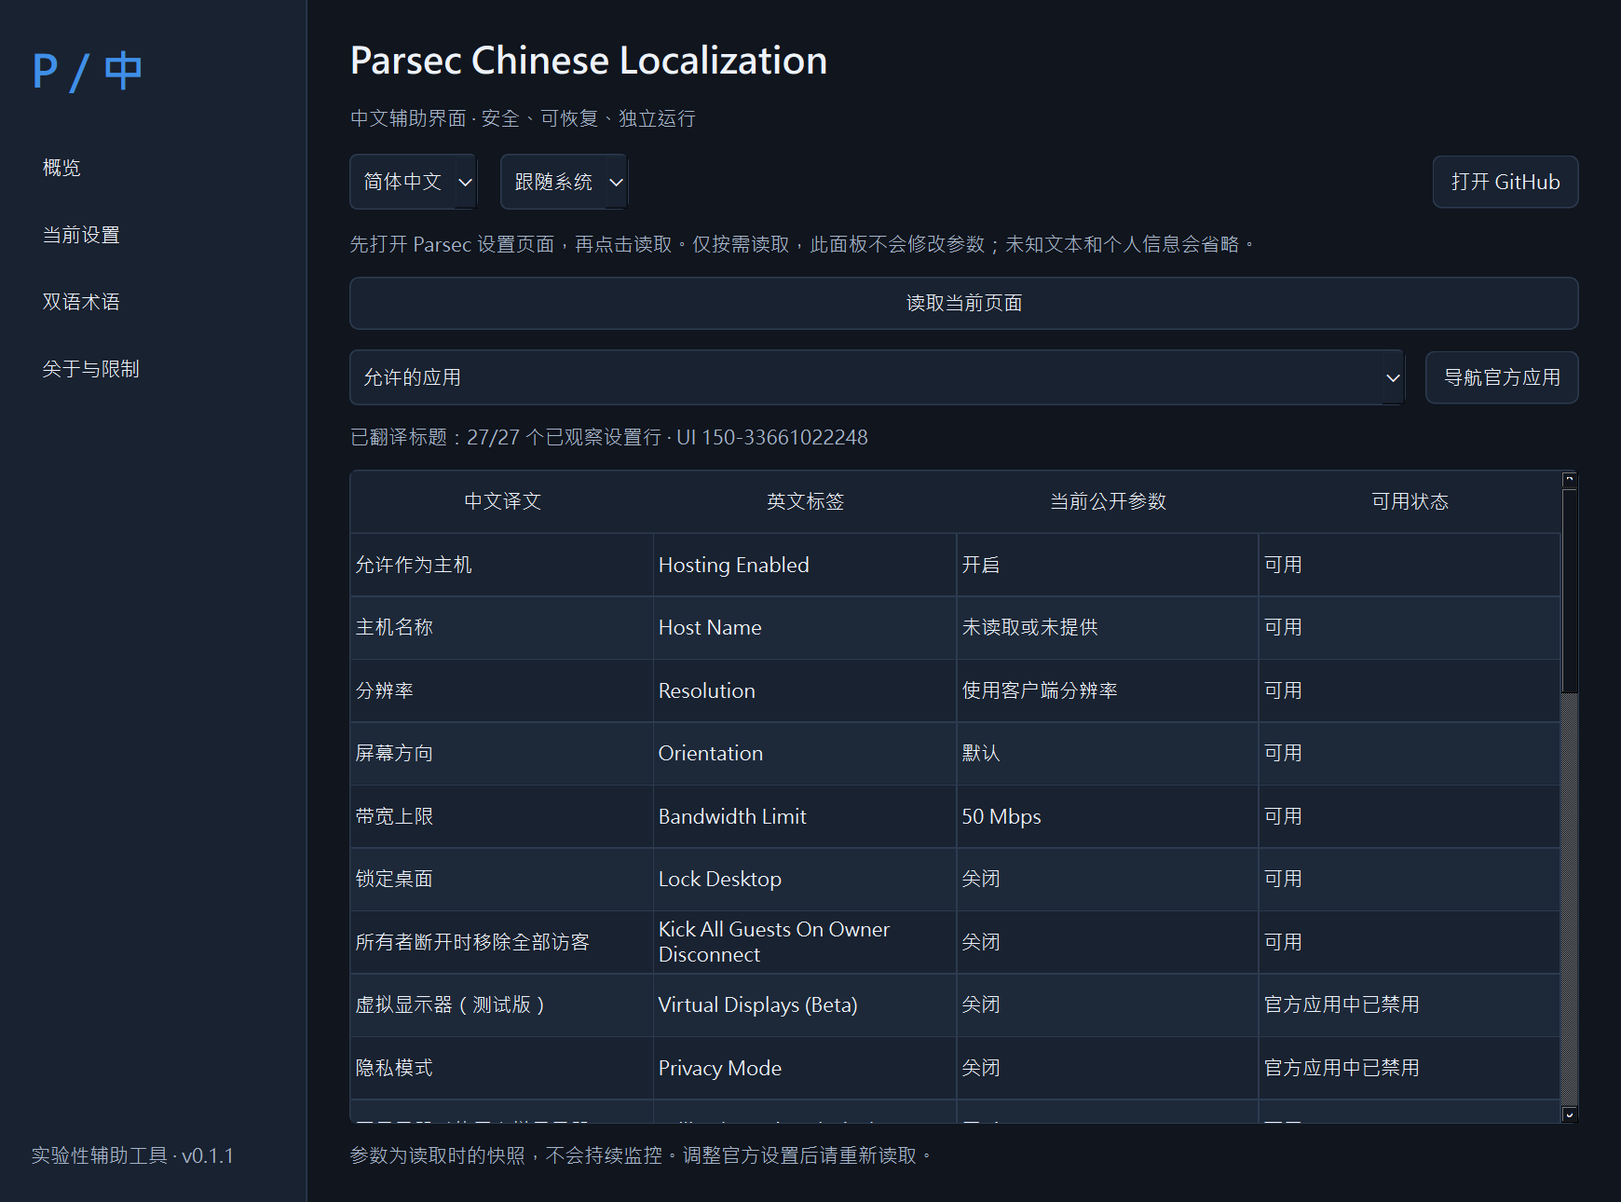
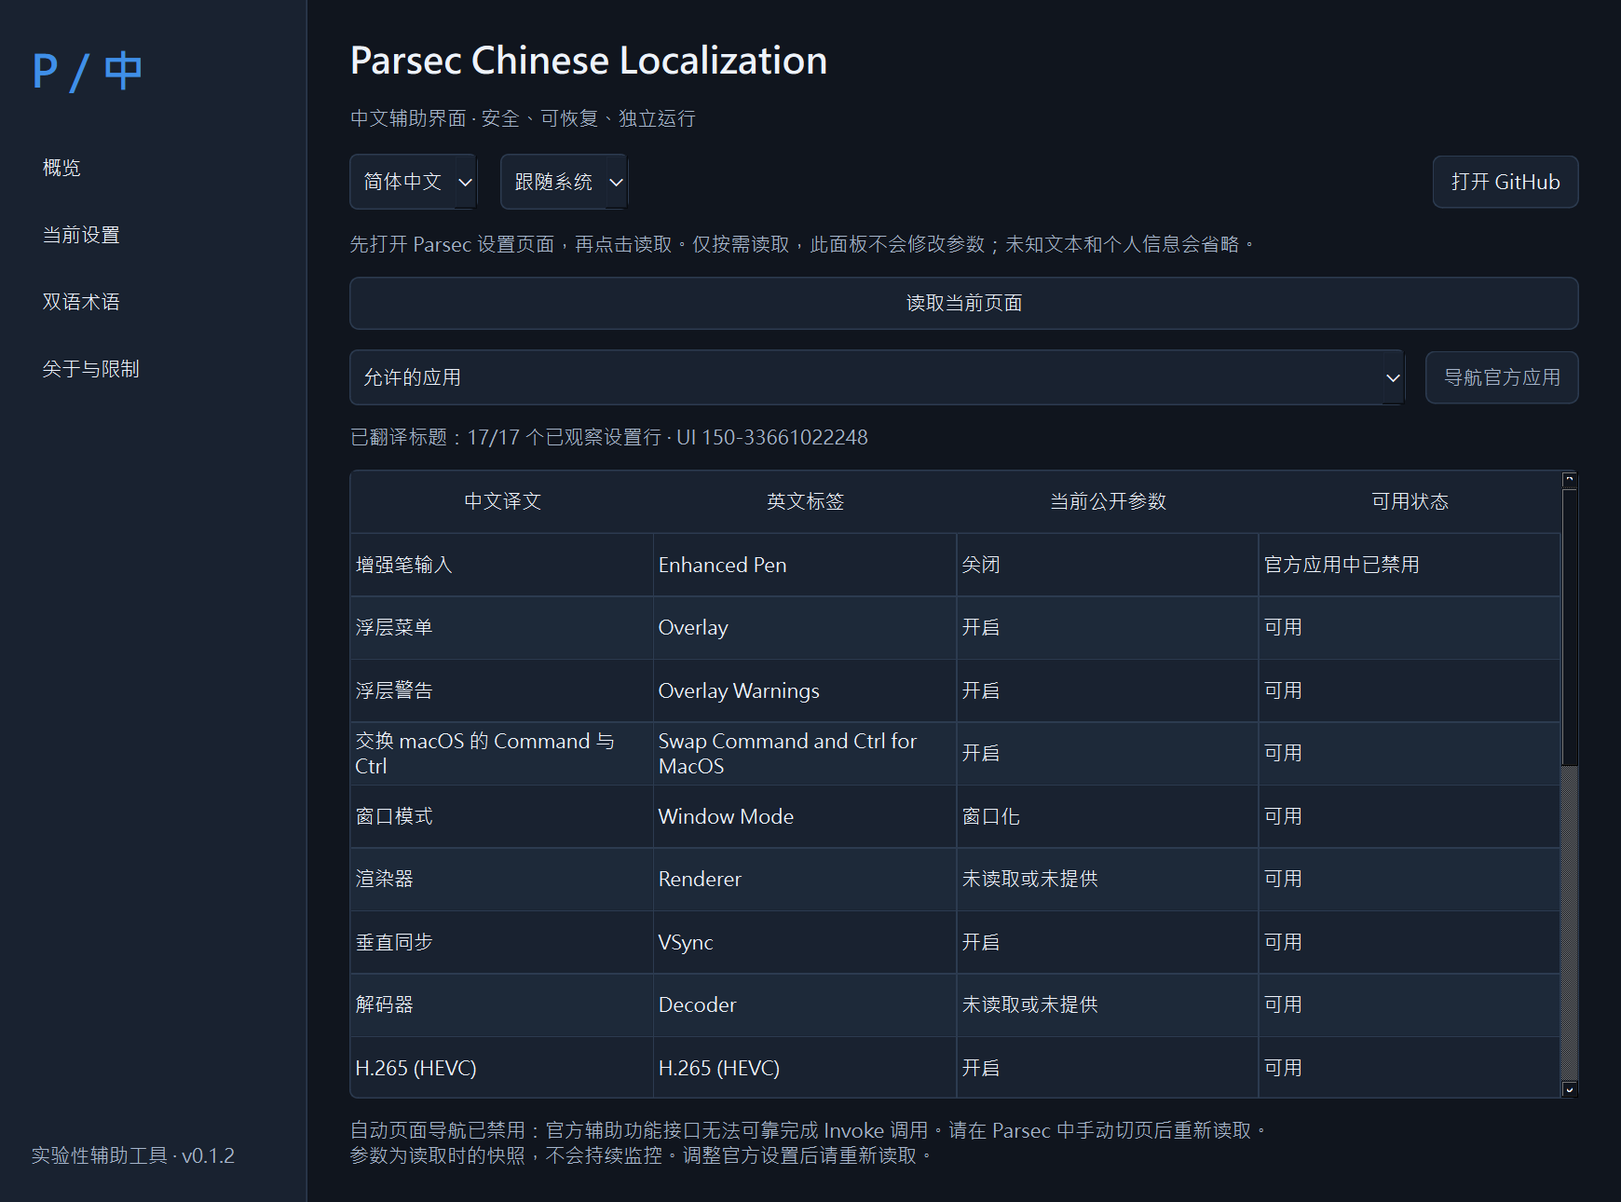
Release v0.1.2 with read-only integration and bounded helper cleanup

diff --git a/src/parsec_chinese/bridge.py b/src/parsec_chinese/bridge.py
@@ -79,40 +79,47 @@ class WindowsBridge:
         navigation = tuple(n for n in sorted(NAVIGATION) if any(b.element_info.name == n and b.is_enabled() for b in buttons))
         rows = {}
         observed = 0
-        # Read actual table rows only, not the username header, footer or host list.
-        for table in window.descendants(control_type="Table"):
-            for row in table.children():
-                cells = row.children()
-                if len(cells) != 2:
+        # Host uses a table; Client uses grouped fields. Both expose ARIA
+        # headings with a uniquely labelled control in a nearby container.
+        for heading in window.descendants():
+            try:
+                if heading.element_info.element.CurrentAriaRole != "heading":
                     continue
-                headings = cells[0].descendants()
-                # Names may be arbitrary; keep only exact known public labels.
-                labels = [h.element_info.name for h in headings
-                          if h.element_info.name.casefold() in self.translations.lookup]
-                observed += 1
-                if not labels:
-                    continue
-                label = labels[0]
-                controls = [c for c in cells[1].descendants()
+            except Exception:
+                continue
+            label = heading.element_info.name
+            scope = heading
+            controls = []
+            for _ in range(3):
+                scope = scope.parent()
+                if scope is None:
+                    break
+                controls = [c for c in scope.descendants()
                             if c.element_info.control_type in ("ComboBox", "CheckBox", "Button", "Spinner", "Edit")
                             and c.element_info.name == label]
-                value = ""
-                enabled = True
-                if controls and label not in PRIVATE_LABELS:
-                    control = controls[0]
-                    enabled = control.is_enabled()
-                    try:
-                        kind = control.element_info.control_type
-                        if kind == "ComboBox":
-                            value = safe_value(control.iface_value.CurrentValue, self.translations)
-                        elif kind in ("CheckBox", "Button"):
-                            value = {0: "Off", 1: "On", 2: "Mixed"}.get(control.iface_toggle.CurrentToggleState, "")
-                        elif kind == "Spinner":
-                            value = safe_value(control.iface_range_value.CurrentValue, self.translations)
-                        # Edit boxes are deliberately never read, even if labelled.
-                    except Exception:
-                        value = ""
-                rows[label] = SettingRow(label, value, enabled)
+                if len(controls) == 1:
+                    break
+            if len(controls) != 1:
+                continue
+            observed += 1
+            if label.casefold() not in self.translations.lookup:
+                continue
+            control = controls[0]
+            value = ""
+            enabled = control.is_enabled()
+            if label not in PRIVATE_LABELS:
+                try:
+                    kind = control.element_info.control_type
+                    if kind == "ComboBox":
+                        value = safe_value(control.iface_value.CurrentValue, self.translations)
+                    elif kind in ("CheckBox", "Button"):
+                        value = {0: "Off", 1: "On", 2: "Mixed"}.get(control.iface_toggle.CurrentToggleState, "")
+                    elif kind == "Spinner":
+                        value = safe_value(control.iface_range_value.CurrentValue, self.translations)
+                    # Edit boxes are deliberately never read, even if labelled.
+                except Exception:
+                    value = ""
+            rows[label] = SettingRow(label, value, enabled)
         return Snapshot(tuple(rows.values()), navigation, observed, len(rows), KNOWN_UI)
 
     def navigate(self, label):

diff --git a/scripts/seed_locales.py b/scripts/seed_locales.py
@@ -71,6 +71,7 @@ shortcut|Use Ctrl+F to search the glossary; Alt+F4 or Command+Q closes the app.|
 experimental|Experimental companion · v{version}|实验性辅助工具 · v{version}|實驗性輔助工具 · v{version}
 loading|Detecting…|正在检测…|正在偵測…
 navigation|Navigate official app|导航官方应用|導覽官方應用程式
+navigation_unavailable_note|Automatic page navigation is disabled: the official accessibility provider did not reliably complete Invoke calls. Switch pages manually in Parsec, then read again.|自动页面导航已禁用：官方辅助功能接口无法可靠完成 Invoke 调用。请在 Parsec 中手动切页后重新读取。|自動頁面導覽已停用：官方輔助使用介面無法可靠完成 Invoke 呼叫。請在 Parsec 中手動切換頁面後重新讀取。
 settings_note|Values are a snapshot, not a continuous monitor. Read again after changing an official setting.|参数为读取时的快照，不会持续监控。调整官方设置后请重新读取。|參數為讀取當下的快照，不會持續監控。調整官方設定後請重新讀取。
 """
 
@@ -236,9 +237,15 @@ Help|Support Ticket|支持工单|支援服務單
 Help|Start Free Trial|开始免费试用|開始免費試用
 Help|Install WebView2|安装 WebView2|安裝 WebView2
 Help|Re-authenticate|重新验证身份|重新驗證身分
+Client|HID Compatibility Options|HID 兼容性选项|HID 相容性選項
+Client|Yubikey Passthrough|YubiKey 直通|YubiKey 直通
+Client|Yubikey Selection|YubiKey 选择|YubiKey 選擇
+Client|Camera Passthrough|摄像头直通|攝影機直通
+Client|Camera Selection|摄像头选择|攝影機選擇
 """
 
 OBSERVED = set("Hosting Enabled|Host Name|Resolution|Orientation|Bandwidth Limit|Lock Desktop|Kick All Guests On Owner Disconnect|Virtual Displays (Beta)|Privacy Mode|Fallback To Virtual Display|Block Daisy-Chaining/Multi-Hop|FPS|Constant FPS|Idle Kick Timer|Exclusive Input Mode|Display|Audio|Echo Cancelling|Echo Selection|Virtual Microphone|Virtual Tablet (Beta)|Parsec Virtual USB Gamepads (Beta)|Virtual Gamepad Type|Virtual Mouse|Virtual Yubikey|Virtual Camera|Quality|Use Client Resolution|Owner-Only|Lowest Latency|Default (Automatic Selection)".split("|"))
+OBSERVED.update("HID Compatibility Options|Yubikey Passthrough|Yubikey Selection|Camera Passthrough|Camera Selection".split("|"))
 
 def main():
     root = Path(__file__).resolve().parents[1] / "locales"

diff --git a/tests/test_bridge_rows.py b/tests/test_bridge_rows.py
@@ -1,0 +1,59 @@
+from types import SimpleNamespace as NS
+from parsec_chinese.bridge import WindowsBridge
+from parsec_chinese.translations import Translations
+from parsec_chinese.detection import Installation
+
+
+class Node:
+    def __init__(self, name, kind="Text", role="heading", children=()):
+        self.element_info = NS(name=name, control_type=kind, element=NS(CurrentAriaRole=role))
+        self.nodes = list(children)
+        self.owner = None
+        for c in self.nodes:
+            c.owner = self
+        self.iface_value = NS(CurrentValue="Hardware")
+
+    def descendants(self):
+        return [c for node in self.nodes for c in (node, *node.descendants())]
+
+    def parent(self):
+        return self.owner
+
+    def is_enabled(self):
+        return True
+
+
+def test_grouped_client_fields_and_private_text(monkeypatch):
+    heading = Node("Decoder")
+    control = Node("Decoder", "ComboBox", "combobox")
+    group = Node("", "Group", "group", (heading, control))
+    private = Node("private-account#123", role="")
+    root = Node("", "Window", "", (group, private))
+    bridge = WindowsBridge(Installation(), Translations())
+    monkeypatch.setattr(bridge, "_window", lambda: (root, []))
+    snapshot = bridge.read()
+    assert snapshot.observed == snapshot.translated == 1
+    assert snapshot.rows[0].label == "Decoder"
+    assert snapshot.rows[0].value == "Hardware"
+
+
+def test_unknown_heading_counted_but_not_retained(monkeypatch):
+    heading = Node("Unverified setting")
+    control = Node("Unverified setting", "Edit", "textbox")
+    root = Node("", "Group", "group", (heading, control))
+    bridge = WindowsBridge(Installation(), Translations())
+    monkeypatch.setattr(bridge, "_window", lambda: (root, []))
+    snapshot = bridge.read()
+    assert snapshot.observed == 1
+    assert snapshot.rows == ()
+
+
+def test_host_name_edit_value_never_accessed(monkeypatch):
+    heading = Node("Host Name")
+    control = Node("Host Name", "Edit", "textbox")
+    del control.iface_value
+    root = Node("", "Group", "group", (heading, control))
+    bridge = WindowsBridge(Installation(), Translations())
+    monkeypatch.setattr(bridge, "_window", lambda: (root, []))
+    snapshot = bridge.read()
+    assert snapshot.rows[0].value == ""

diff --git a/src/parsec_chinese/app.py b/src/parsec_chinese/app.py
@@ -251,6 +251,7 @@ class Window(QMainWindow):
             getattr(self, name).setText(self.t(key))
         for label, key in ((self.notice, "notice"), (self.patch_reason, "patch_reason"), (self.live_help, "live_help"), (self.settings_note, "settings_note")):
             label.setText(self.t(key))
+        self.settings_note.setText(self.t("navigation_unavailable_note") + "\n" + self.t("settings_note"))
         self.patch_button.setToolTip(self.t("patch_reason"))
         self.language_picker.blockSignals(True)
         self.language_picker.setCurrentIndex(self.language_picker.findData(self.preferences.language))
@@ -291,9 +292,11 @@ class Window(QMainWindow):
                                     (self.installation.signature_valid or self.installation.platform == "darwin"))
         self.read_button.setEnabled(not busy and self.installation.live_supported)
         self.read_button.setToolTip("" if self.installation.live_supported else self.t("unsupported_version_error"))
-        self.nav_button.setEnabled(not busy and bool(self.snapshot.navigation) and self.installation.live_supported)
-        self.nav_picker.setEnabled(not busy and bool(self.snapshot.navigation))
-        self.nav_button.setToolTip("" if self.snapshot.navigation else self.t("live_help"))
+        # Real integration checks found unreliable Invoke completion. Do not
+        # expose an action that may change a page without a confirmed outcome.
+        self.nav_button.setEnabled(False)
+        self.nav_picker.setEnabled(False)
+        self.nav_button.setToolTip(self.t("navigation_unavailable_note"))
 
     def fill_glossary(self):
         rows = self.translations.terms(self.preferences.language, self.search.text())
@@ -434,9 +437,7 @@ class Window(QMainWindow):
             self.run_job("read", lambda: IsolatedBridge(self.installation, self.translations).read())
 
     def navigate(self):
-        label = self.nav_picker.currentData()
-        if label:
-            self.run_job("navigate", lambda: IsolatedBridge(self.installation, self.translations).navigate(label))
+        self.message("navigation_unavailable_note")
 
     def search_terms(self):
         self.pages.setCurrentIndex(2)

diff --git a/tests/test_isolation.py b/tests/test_isolation.py
@@ -1,4 +1,6 @@
 import subprocess
+import sys
+import time
 import pytest
 from parsec_chinese.isolated_bridge import IsolatedBridge, worker
 from parsec_chinese.detection import Installation
@@ -12,6 +14,8 @@ def test_provider_timeout_bounded(tmp_path, monkeypatch):
     bridge = IsolatedBridge(Installation(exe,"150-105c",True,"win32"), Translations(), timeout=0.1)
     def stall(command, **kwargs):
         assert kwargs["timeout"] == 0.1
+        assert kwargs["stdout"] is subprocess.DEVNULL
+        assert "capture_output" not in kwargs
         raise subprocess.TimeoutExpired(command, 0.1)
     monkeypatch.setattr(subprocess, "run", stall)
     with pytest.raises(BridgeError, match="provider_timeout"):
@@ -30,3 +34,17 @@ def test_unknown_version_does_not_start_helper(monkeypatch):
     monkeypatch.setattr(subprocess, "run", forbidden)
     with pytest.raises(BridgeError, match="unsupported_version"):
         IsolatedBridge(Installation(), Translations()).read()
+
+
+def test_real_stalled_helper_is_terminated(tmp_path, monkeypatch):
+    exe = tmp_path / "parsecd.exe"
+    exe.touch()
+    bridge = IsolatedBridge(Installation(exe, "150-105c", True, "win32"), Translations(), timeout=0.15)
+    original = subprocess.run
+    def delayed(command, **kwargs):
+        return original([sys.executable, "-c", "import time; time.sleep(30)"], **kwargs)
+    monkeypatch.setattr(subprocess, "run", delayed)
+    started = time.monotonic()
+    with pytest.raises(BridgeError, match="provider_timeout"):
+        bridge.read()
+    assert time.monotonic() - started < 5

diff --git a/src/parsec_chinese/isolated_bridge.py b/src/parsec_chinese/isolated_bridge.py
@@ -27,7 +27,10 @@ class IsolatedBridge:
                 command += ["--label", label]
             kwargs = {"creationflags": subprocess.CREATE_NO_WINDOW} if sys.platform == "win32" else {}
             try:
-                subprocess.run(command, capture_output=True, timeout=self.timeout, check=True, **kwargs)
+                # No stdout pipes: COM-spawned descendants can retain inherited pipe
+                # handles and otherwise trap communicate() even after a timeout.
+                subprocess.run(command, stdout=subprocess.DEVNULL, stderr=subprocess.DEVNULL,
+                               timeout=self.timeout, check=True, **kwargs)
                 if not output.is_file() or output.stat().st_size > 65536:
                     raise BridgeError("unsupported_ui")
                 result = json.loads(output.read_text(encoding="utf-8"))

diff --git a/tests/test_gui.py b/tests/test_gui.py
@@ -27,6 +27,15 @@ def test_no_native_success_claims(window):
     assert not window.patch_button.isEnabled()
     assert "0%" in window.stats["coverage"][1].text()
     assert not window.read_button.isEnabled()
+    assert not window.nav_button.isEnabled()
+
+
+def test_navigation_remains_disabled_after_read(window):
+    window.snapshot = Snapshot((SettingRow("Decoder", "Hardware"),), ("Client",), 1, 1, "test")
+    window.fill_snapshot()
+    assert not window.nav_button.isEnabled()
+    assert not window.nav_picker.isEnabled()
+    assert "Invoke" in window.nav_button.toolTip()
 
 
 def test_click_language_and_restore(window):

diff --git a/tests/test_core.py b/tests/test_core.py
@@ -11,7 +11,7 @@ from parsec_chinese.detection import Installation, active_version
 
 def test_dictionary_complete():
     t = Translations()
-    assert len(t.catalog) == 160
+    assert len(t.catalog) == 165
     assert t.term("Computers", "zh-CN") == "计算机"
     assert t.term("Computers", "zh-TW") == "電腦"
     assert all(v["native_replacement"] is False for v in t.catalog.values())

diff --git a/src/parsec_chinese/__init__.py b/src/parsec_chinese/__init__.py
@@ -1,3 +1,3 @@
 """Third-party companion; never patches Parsec's proprietary files."""
-__version__ = "0.1.1"
+__version__ = "0.1.2"
 REPOSITORY = "https://github.com/hhhoratioxu/Parsec-Chinese-Localization"

diff --git a/scripts/build.py b/scripts/build.py
@@ -11,7 +11,7 @@ import urllib.request
 
 ROOT = Path(__file__).resolve().parents[1]
 NAME = "ParsecChineseLocalization"
-VERSION = "0.1.1"
+VERSION = "0.1.2"
 
 
 def run(command, **kwargs):

diff --git a/docs/VALIDATION.md b/docs/VALIDATION.md
@@ -2,15 +2,16 @@
 
 Date: 2026-10-09. Local system: Windows 11 build 26200, x64, Python 3.14.
 
-- Final local automated pass including helper-timeout tests: **47 passed, 1 skipped**. Symlink creation test skipped because the local Windows account cannot create the test link. GUI tests use Qt offscreen mode.
+- Final local automated pass including a real helper termination check, grouped-field privacy checks and disabled-navigation checks: **52 passed, 1 skipped**. Symlink creation test skipped because the local Windows account cannot create the test link. GUI tests use Qt offscreen mode.
 - Real read-only probe: signed Parsec APP 150-105c, WebView UI 150-33661022248. Host settings page: 27 known titles / 27 observed rows; host name omitted, unknown device/application values omitted. This is not full-app coverage.
-- Actual Windows GUI: inspected running main window and confirmed version detection, native operation disabled, 0% coverage and Chinese interface. Public page read through GUI worker succeeded. Navigation exposed a UIA provider hang; changed to an on-demand helper with an 18-second timeout and explicit unknown-outcome message.
-- Actual screenshot script captured running Qt companion windows in English/Simplified/Traditional Chinese. Host page screenshots use the real 27-row public snapshot, not fixtures. No native Parsec or personal screenshots are published.
+- Actual Windows GUI: inspected running main window and confirmed version detection, native operation disabled, 0% coverage and Chinese interface. Public page read through GUI worker succeeded. Navigation exposed unreliable provider completion, so v0.1.2 disables automatic navigation. Reads use an on-demand helper with an 18-second timeout and no output pipes. Real termination tests verify bounded cleanup.
+- Actual screenshot script captured running Qt companion windows in English/Simplified/Traditional Chinese. Delivery screenshots use the real Client page snapshot: **17/17 headings associated with controls**. The reader supports both grouped Client fields and table-based Host fields. No native Parsec or personal screenshots are published.
 - Windows install/uninstall: `scripts/verify_installer.ps1` passed a real isolated install, installed GUI smoke test and uninstall. The uninstaller retains existing companion preferences during this test.
 - Windows unsigned installer and portable package build succeeded locally; final rebuild includes isolation changes.
 - The rebuilt frozen Windows helper read **27/27 real public settings rows** successfully, validating helper IPC in a bundled executable. Rebuilt installer/start/uninstall checks also passed using direct Python subprocess calls without changing system execution policy.
 - [Initial three-platform CI run](https://github.com/hhhoratioxu/Parsec-Chinese-Localization/actions/runs/37914345641): Windows x64, macOS arm64 and macOS x86_64 all passed **45 tests with zero skips**; bundled app startup and actual package checks also passed. Windows install/uninstall passed; both macOS DMGs were verified, mounted, and their app smoke tests passed. This run predates the three additional isolation tests; the tag pipeline will validate those before publishing.
 - macOS packages use CI Python 3.12. No real macOS Parsec integration, macOS installation detector or Gatekeeper acceptance test.
 - [v0.1.0 pipeline](https://github.com/hhhoratioxu/Parsec-Chinese-Localization/actions/runs/37915140219): all three build jobs passed; the release job failed because its download pattern selected test artifacts instead of application artifacts. No v0.1.0 release was published. Corrected the artifact selection for v0.1.1; its final release pipeline is pending.
+- [v0.1.1 pipeline](https://github.com/hhhoratioxu/Parsec-Chinese-Localization/actions/runs/37915527942): all build and release jobs passed, with 48 tests per platform. The release was returned to draft after live navigation checks; it is not the delivery version. v0.1.2 is the delivery candidate with navigation disabled and helper-pipe cleanup fixed.
 
 Unverified: complete native localization, Windows 10 hardware, macOS real client integration, stream/connection overlays, login/register localization and streaming performance. No synthetic test is counted as a real client integration result.

diff --git a/README_EN.md b/README_EN.md
@@ -7,10 +7,10 @@ This independent project targets [Parsec Remote Desktop](https://parsec.app), no
 ## Features and compatibility
 
 - GUI with Simplified Chinese, Traditional Chinese, English, system fonts and light/dark themes.
-- 160 searchable bilingual glossary entries, placeholder validation and provenance metadata.
+- 165 searchable bilingual glossary entries, placeholder validation and provenance metadata.
 - Installation/version detection and Windows Authenticode verification.
 - On-demand read-only mirror of public settings headings/values on **Windows APP 150-105c / UI 150-33661022248 only**.
-- Allowlisted official-page navigation. Settings changes, connections and authentication stay in the official application.
+- Automatic page navigation is disabled because the official accessibility provider did not reliably complete Invoke calls. Switch pages and change settings in the official application.
 - Atomic backed-up companion preferences, English restoration and cleanup. No Parsec files are written.
 - GitHub release checks only on click; event logs contain fixed names only.
 
@@ -20,7 +20,7 @@ Windows x64 installers and portable packages are built. macOS arm64/Intel DMGs p
 
 Install the official Parsec client separately. Download an actual attachment from [Releases](https://github.com/hhhoratioxu/Parsec-Chinese-Localization/releases), verify SHA256SUMS.txt, then install the Windows EXE or keep the entire extracted portable directory. On macOS drag the app from its DMG to Applications. Follow normal OS workflows for unsigned software or build from source; do not disable security.
 
-Select a companion language and search the glossary. On the known Windows version, open exactly one non-minimized Parsec window at a settings tab and click **Current settings → Read current page**. The snapshot is not continuously monitored. Choose an available navigation target to move to an official page and read again. No setting-value controls are mirrored as editable controls.
+Select a companion language and search the glossary. On the known Windows version, open exactly one non-minimized Parsec window at a settings tab and click **Current settings → Read current page**. The snapshot is not continuously monitored. Switch pages manually in Parsec and read again; the automatic navigation button is disabled with an explanation. No setting-value controls are mirrored as editable controls.
 
 ## Actual screenshots
 
